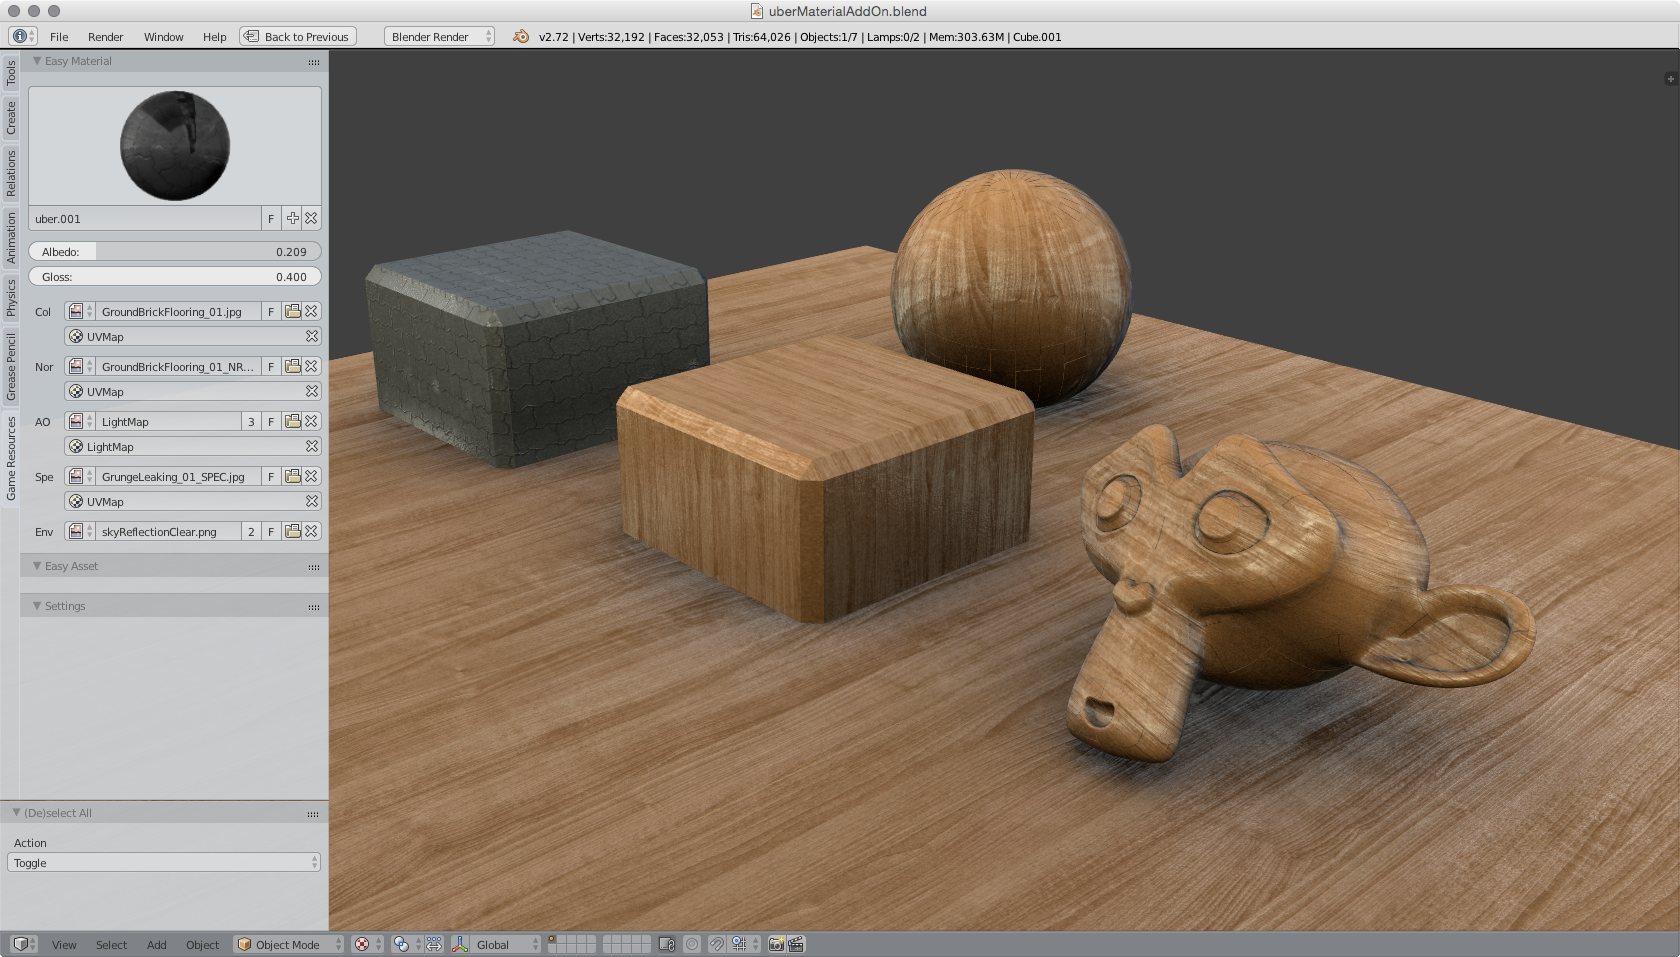
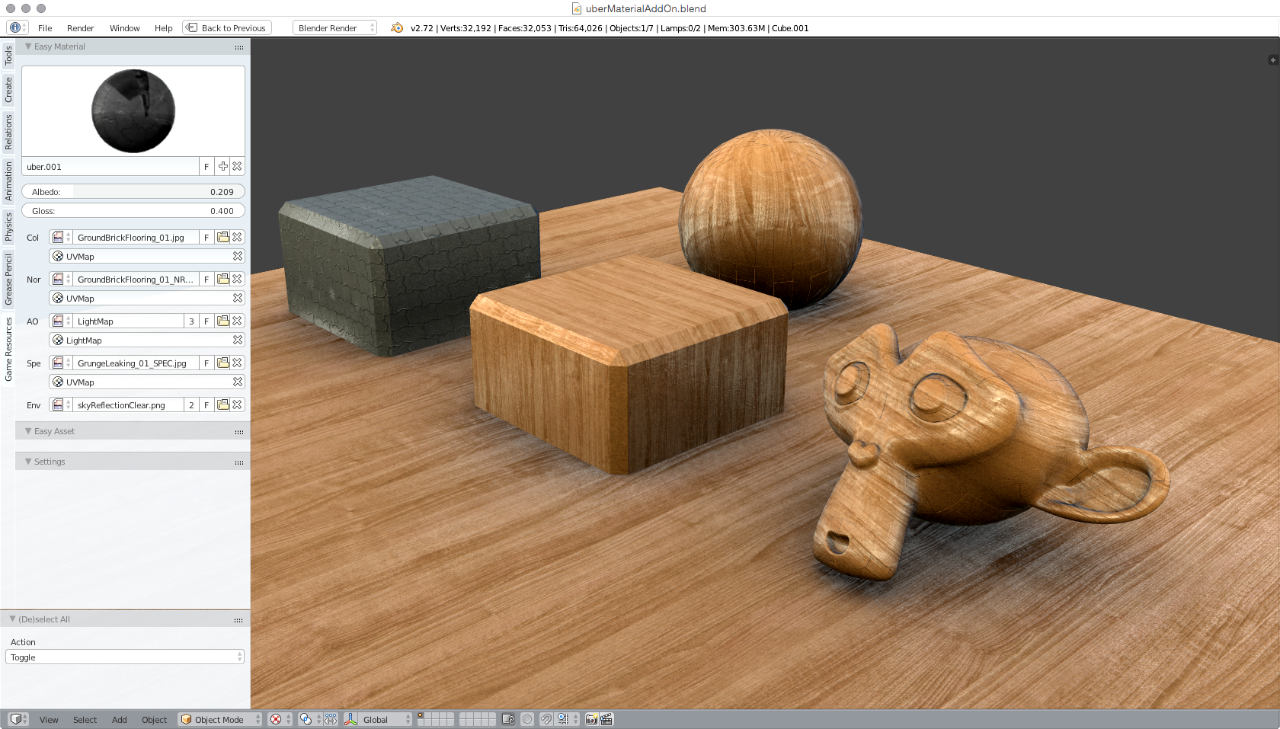
updated docs

diff --git a/addons/README.md b/addons/README.md
@@ -4,4 +4,6 @@
 Easy Material is an addon that helps you setup physically-plausible materials for the Blender Game Engine.
 ![Easy Material screenshot](../Docs/easyMaterial.png)
 
+![Easy Material screenshot](../Docs/easyMaterial2.png)
+
 
